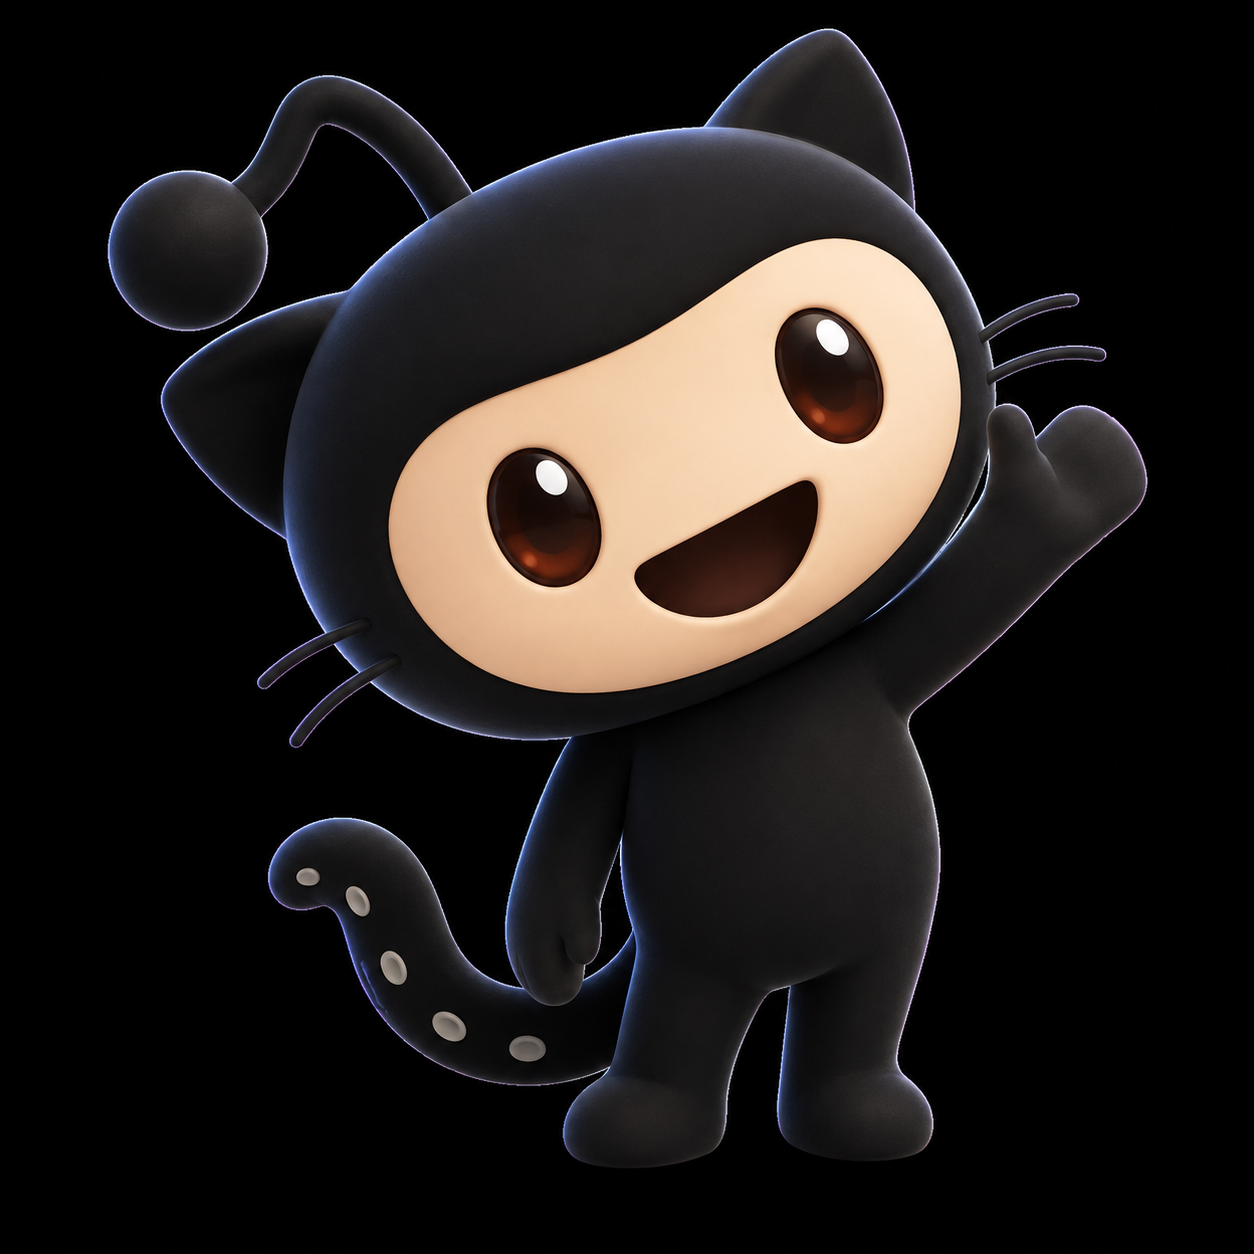
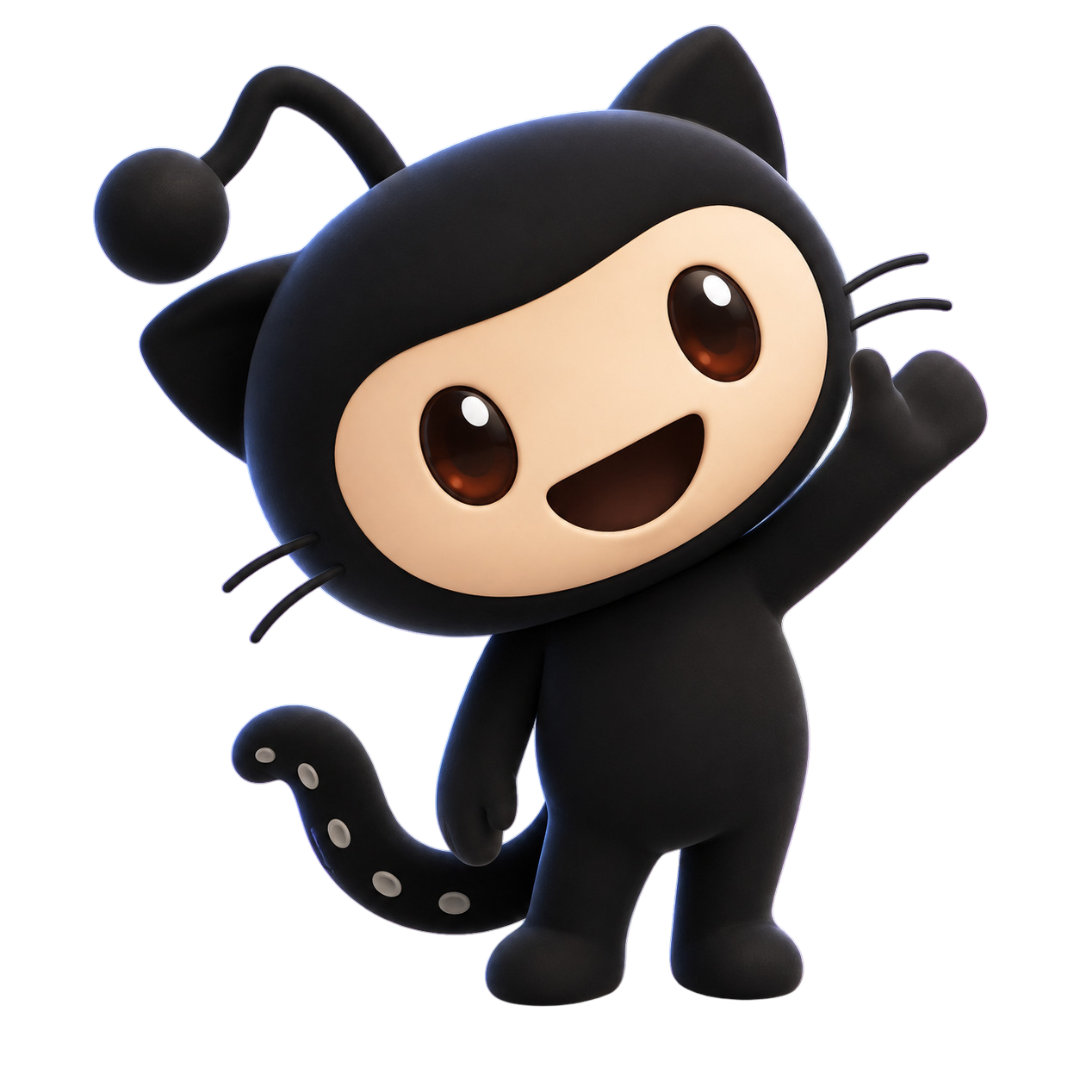
feat: removed background from waving.png

diff --git a/src/components/UserCard.tsx b/src/components/UserCard.tsx
@@ -24,7 +24,7 @@ function UserCard({ user, repos }: UserCardProps) {
             </div>
 
 
-            <div className="flex flex-col w-1/4 gap-4 p-4 bg-black rounded-2xl">
+            <div className="flex flex-col w-1/4 gap-4 p-4 bg-black rounded-2xl h-fit">
                 <p className="font-bold text-base">{user.login}</p>
                 <div className="relative">
                     <img src={plusIcon} className="max-w-[16px] absolute left-2 top-1/2 -translate-y-1/2"/>

diff --git a/src/App.tsx b/src/App.tsx
@@ -18,7 +18,7 @@ function App() {
   }
 
   return (
-    <div className="flex flex-col h-dvh justify-top items-center bg-[#0e1113] gap-2">
+    <div className="flex flex-col h-dvh justify-top items-center bg-[#0e1113] gap-4">
       <SearchBar query={query} setQuery={setQuery} onSearch={onSearch} inputRef={inputRef} />
       {status !== "success" && status !== "loading" && status && <StatusMessage status={status} query={searchedQuery} inputRef={inputRef} />}
 
